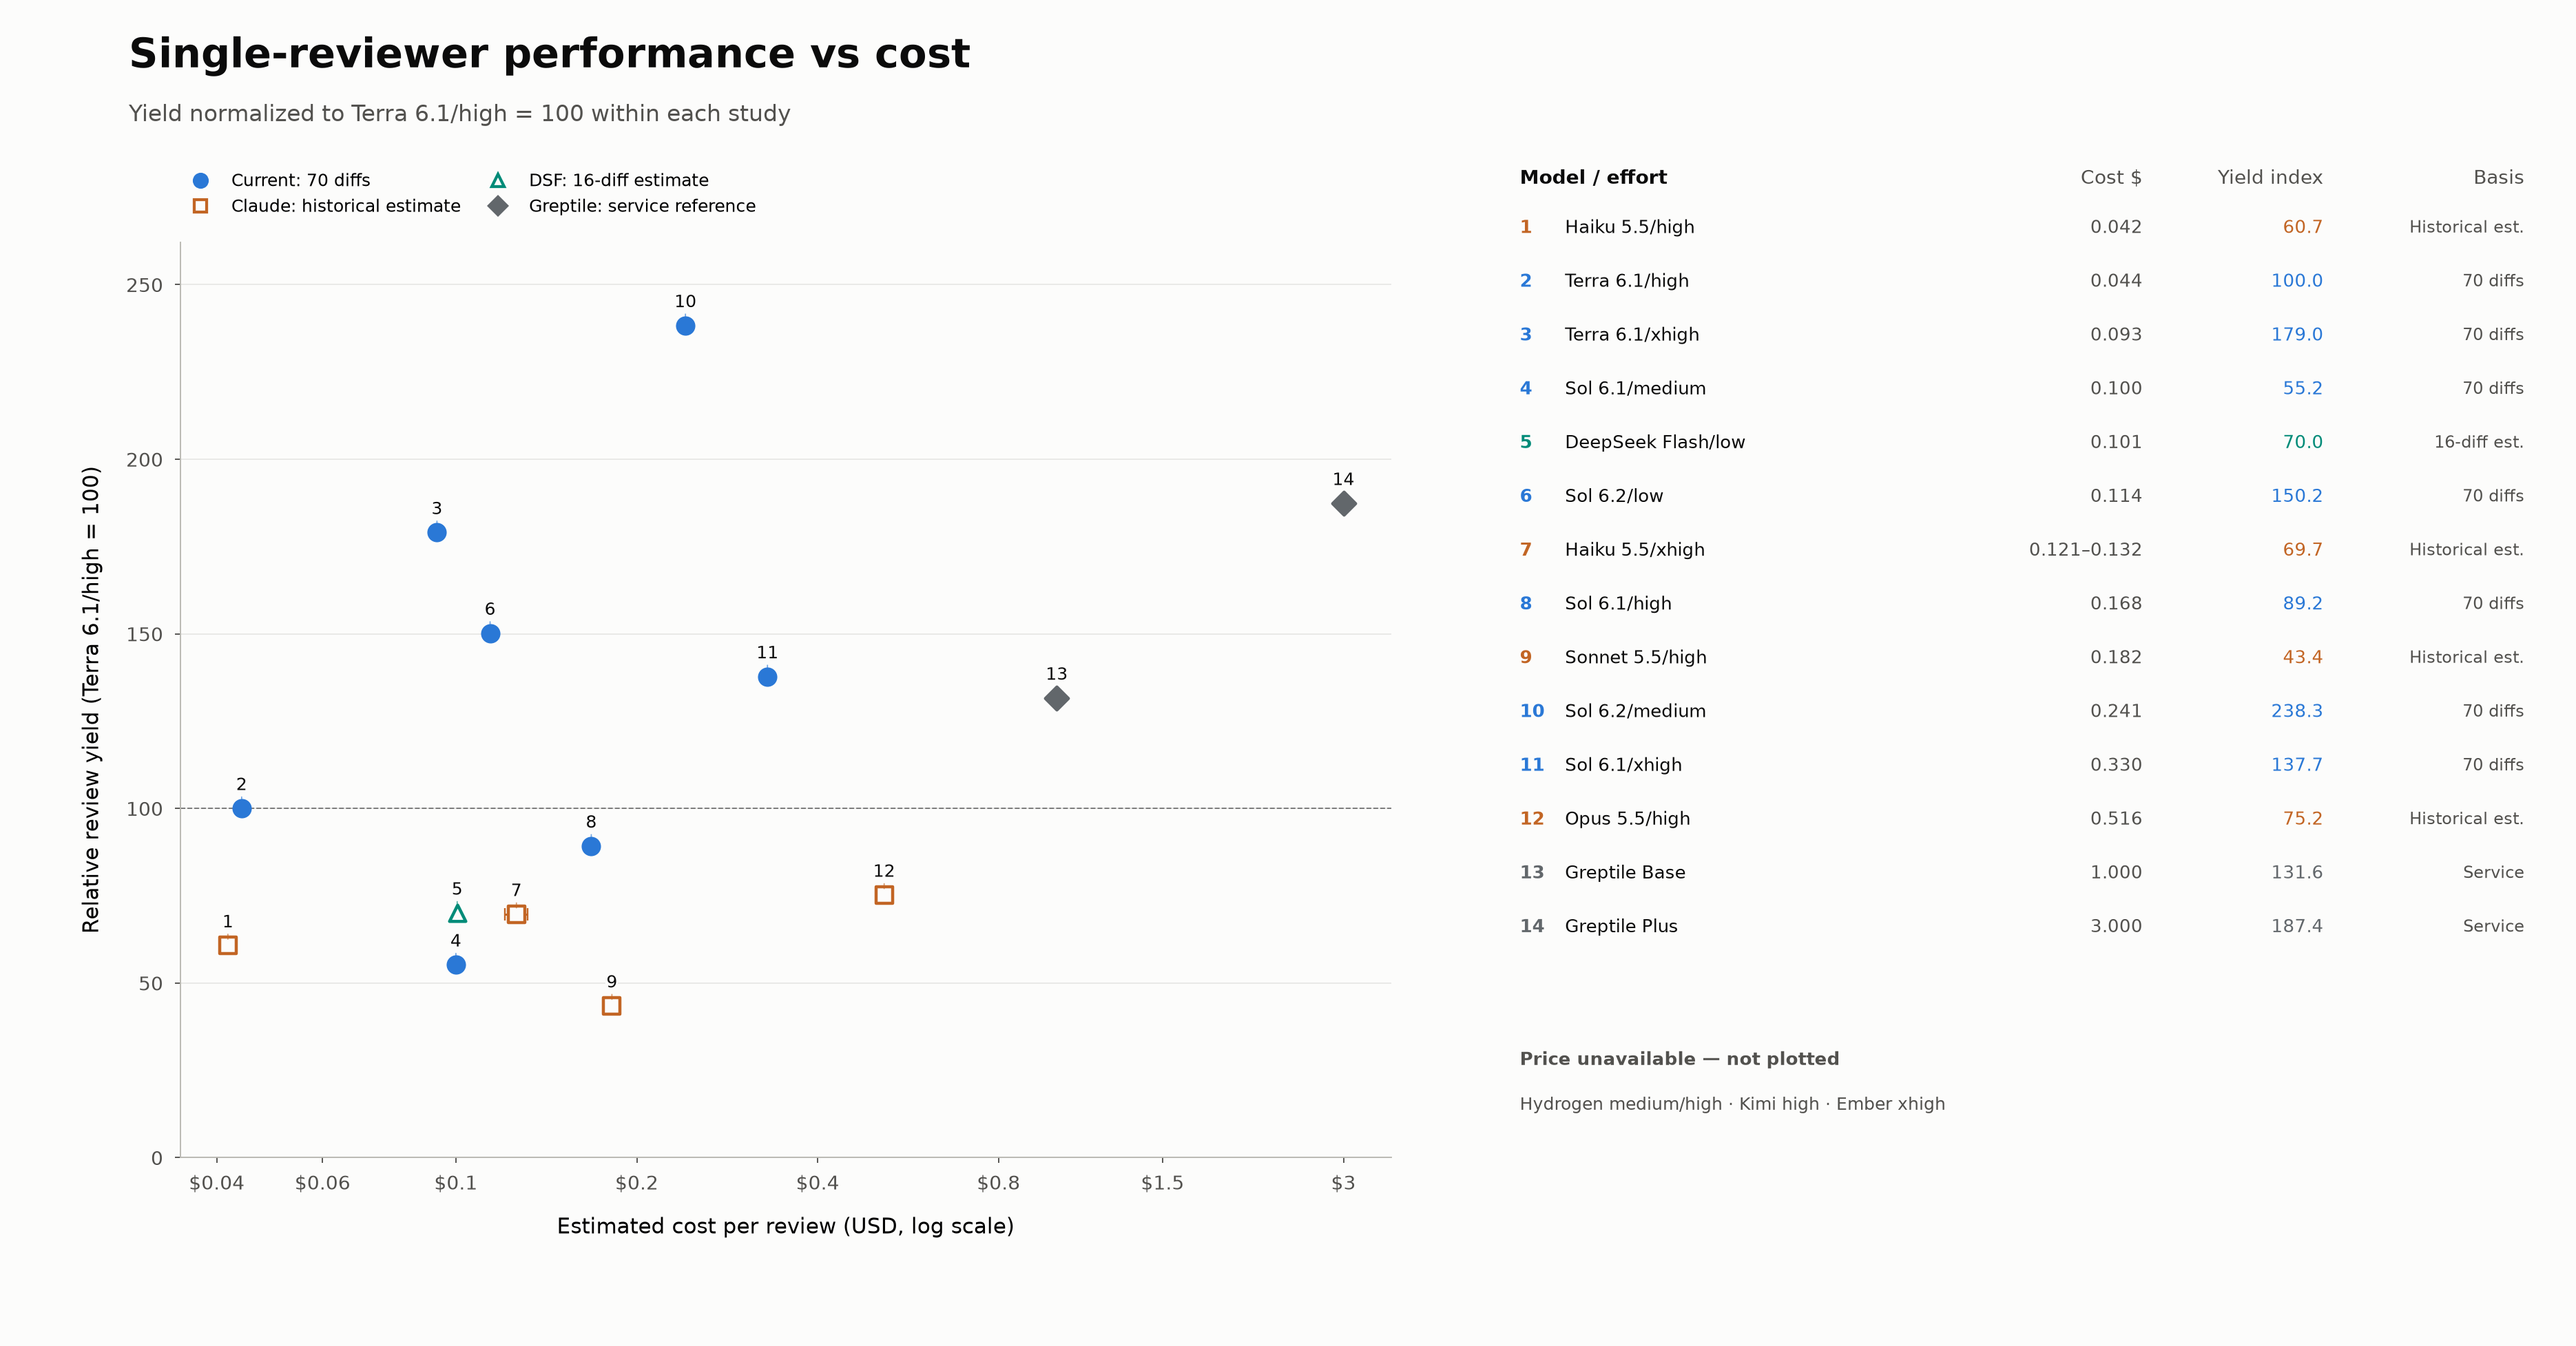
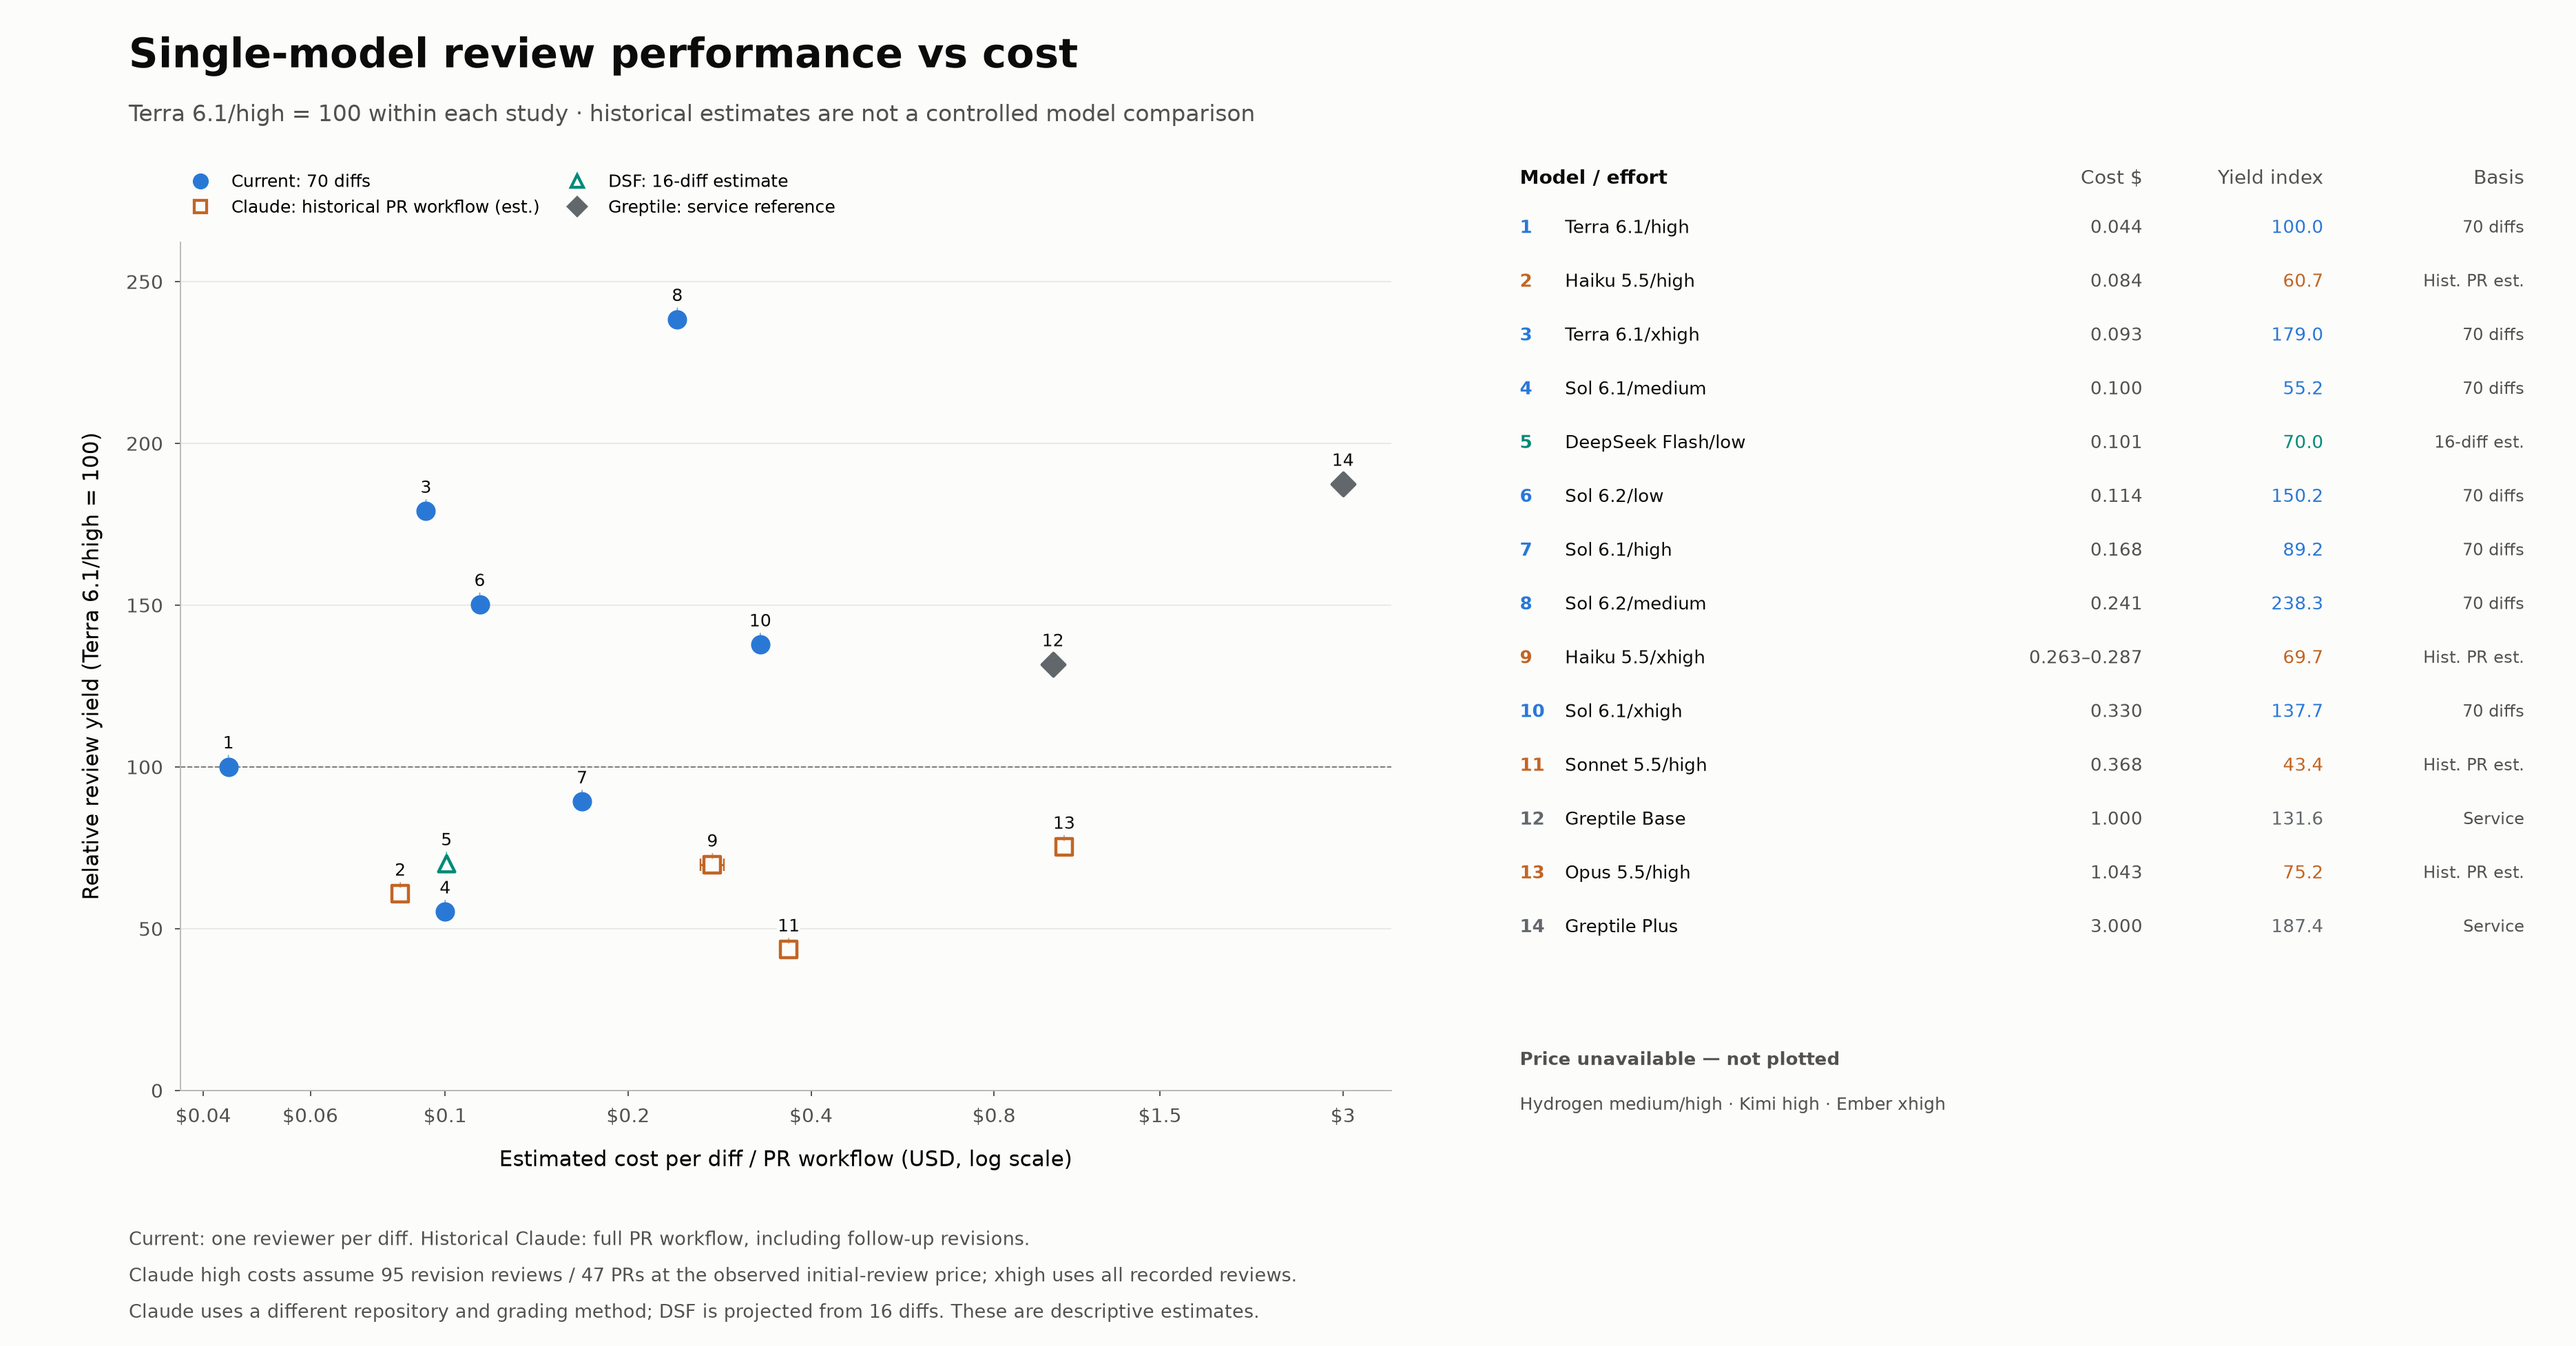
Include follow-up review costs in historical Claude workflow estimates

diff --git a/.agents/evals/review-arms/results/sol-62-opus-high/README.md b/.agents/evals/review-arms/results/sol-62-opus-high/README.md
@@ -135,9 +135,9 @@ historical frontier and retain the original per-configuration sample caps.
 [High](pareto-sev-high.csv) · [Medium](pareto-sev-medium.csv) ·
 [Low](pareto-sev-low.csv)
 
-### Single-reviewer performance versus cost
+### Single-model review performance versus cost
 
-![Single-reviewer yield versus cost, including historical Claude and partial DSF estimates](review-single-model-cost.png)
+![Single-model yield versus workflow cost, including historical Claude and partial DSF estimates](review-single-model-cost.png)
 
 Yield is normalized to Terra 6.1/high = 100 within each source study. Current
 measurements use filled markers; historical Claude and partial-cohort DSF
@@ -152,11 +152,18 @@ estimates use hollow markers. These series count different source outcomes:
   reviewer study**, preserved as `reviewcharts/data.json`, `native.csv` and
   `README.txt`. Yield is the mean material-root total, deduplicated within each
   PR and pass across follow-up revisions. Its denominator is Terra 6.1/high's
-  material-root total from that same historical cohort. Costs use the earlier
-  study's initial-head review estimates with the requested five-minute cache
-  normalization; they exclude follow-up review costs. Haiku/xhigh's horizontal
-  range is a historical pricing bound, with its marker at the midpoint. These are historical
-  proxies, not fresh Claude results on the current 70 diffs.
+  material-root total from that same historical cohort. The cost unit is the
+  **full PR workflow**, including follow-up reviews. For Opus/high, Sonnet/high
+  and Haiku/high, estimate that workflow at the observed initial-review mean
+  cost times **95 revision reviews / 47 PRs**. This charges every follow-up but
+  assumes it costs the same as an initial review; actual follow-up costs are
+  unavailable. Haiku/xhigh instead uses all 285 recorded review-cost bounds in
+  `reviewcharts/haiku-xhigh-metrics.json`, divided by 141 PR-passes. All costs
+  retain the requested five-minute cache-write normalization. Haiku/xhigh's
+  horizontal range is a request-tier pricing bound, with its marker at the
+  midpoint. The PNG itself labels these workflow assumptions and the different
+  corpus and grading method. These are historical estimates, not fresh Claude
+  results or a controlled comparison on the current 70 diffs.
 - **DSF/low estimate:** `verify9/sessions.csv`, `groups.csv` and
   `session_groups.csv` supply the DSF and control outcomes on the same 16
   covered diffs. Each matched-control estimate is DSF's 16-diff total times
